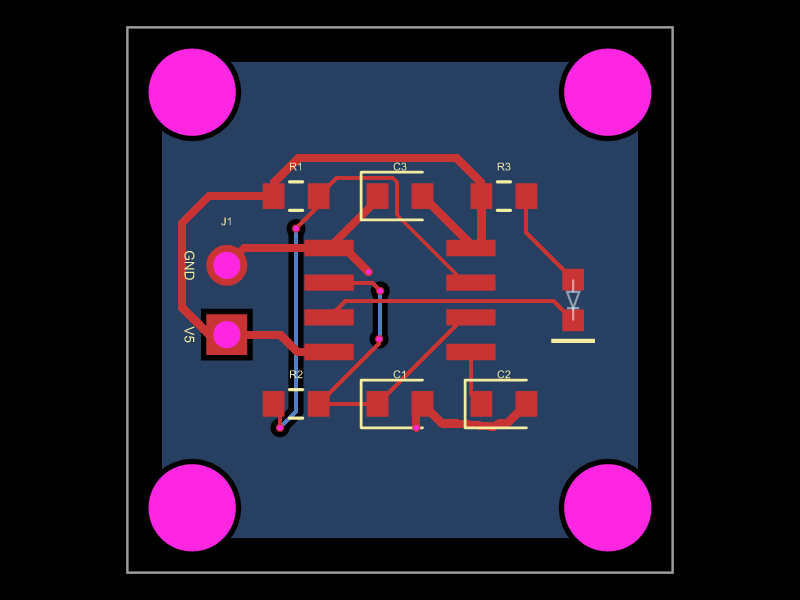
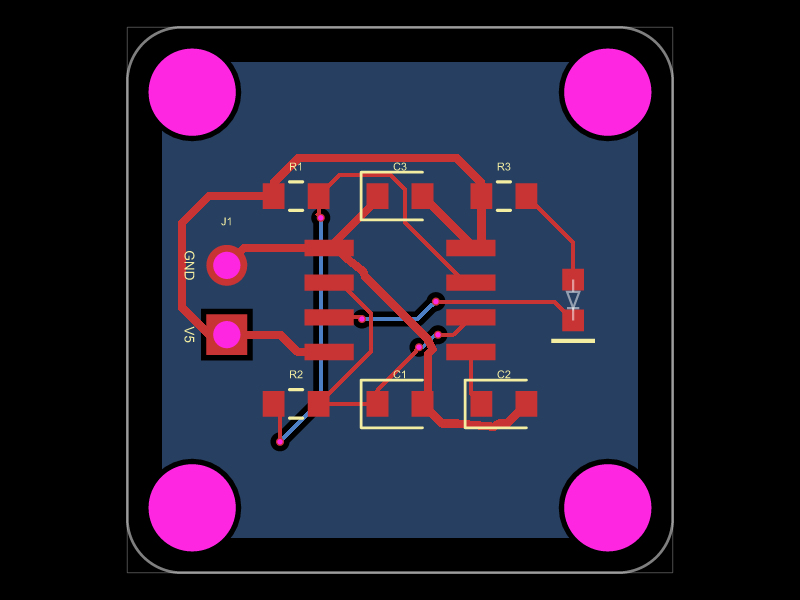
fix: new design rules

diff --git a/index.circuit.tsx b/index.circuit.tsx
@@ -84,7 +84,7 @@ const route = (at: [number, number], pts: [number, number][], d = 0.9) =>
     .map(({ x, y }) => ({ x: x - at[0], y: y - at[1] }))
 
 export default () => (
-  <board width="20mm" height="20mm" thickness="1.6mm" pcbStyle={{ silkscreenFontSize: 0.4 }} schTraceAutoLabelEnabled schMaxTraceDistance={5}>
+  <board width="20mm" height="20mm" borderRadius={2} thickness="1.6mm" pcbStyle={{ silkscreenFontSize: 0.4 }} schTraceAutoLabelEnabled schMaxTraceDistance={5}>
 
     <schematicsheet name="Flasher" displayName="NE555 LED flasher" sheetIndex={0} sheetWidth="170mm" sheetHeight="90mm" />
     <schematicsection name="Power" displayName="Power input" />

diff --git a/README.md b/README.md
@@ -33,14 +33,14 @@ First complete draft: 5V NE555 LED flasher, builds cleanly (`tsci build`), `tsci
 - **Ground pour:** solid copper pour on the bottom layer only, tied to GND (0.2 mm clearance, `boardEdgeMargin="1.27mm"`; DESIGN.md rule 16 says no top pour). The top-layer GND traces are still routed; the pour is tied in through J1.GND and the GND traces' layer-change vias and adds return-path area/shielding.
 - **Trace width:** V5 and GND traces are 0.3 mm (`thickness="0.3mm"` on every trace that touches those nets); signal traces keep the 0.15 mm default.
 - **Routing:** V5 is hand-routed on the top layer (`pcbPath` via the `route()` helper, which cuts every 90 degree corner into two 45 degree bends, DESIGN.md rule 17; no vias); GND and the signals are autorouted. Two vias remain on the GND tree (rule 15 covers supply nets other than GND, so they are fine). Hand-routed traces anchor their `pcbPath` to the `from` part's centre, and C3 has `maxDecouplingTraceLength={3}` (the 1 mm default would stop the autorouter, since its V5 pad is 2.60 mm from U1 VCC). Sensible to review in `tsci dev` before fabrication.
-- **Layout:** see the published [DESIGN.md](https://github.com/agentic-pcb/example-base/blob/main/DESIGN.md); the "Design rule audit" table below audits all 27 rules. Parts sit on a 1.27 mm grid in two rows of three 0603 parts (top y = +3.81: R1, C3, R3; bottom y = -3.81: R2, C1, C2; 3.81 mm pitch), with J1 and D1 mirrored at x = ±6.35. The rows are pulled in from the former ±5.08 so every pad stays at least 4.2 mm from a hole centre (screw head area, rule 18).
+- **Layout:** see the published [DESIGN.md](https://github.com/agentic-pcb/example-base/blob/main/DESIGN.md); the "Design rule audit" table below audits all 28 rules. The board corners are rounded with a 2 mm radius (rule 28). Parts sit on a 1.27 mm grid in two rows of three 0603 parts (top y = +3.81: R1, C3, R3; bottom y = -3.81: R2, C1, C2; 3.81 mm pitch), with J1 and D1 mirrored at x = ±6.35. The rows are pulled in from the former ±5.08 so every pad stays at least 4.2 mm from a hole centre (screw head area, rule 18).
 - **Decoupling (rule 24, a must):** C3 (100 nF) sits directly above U1 pin 8 (VCC), 2.60 mm centre to centre. Its V5 pad is pin 2 (a capacitor is non-polar, so pin 1/pin 2 are swapped in the TSX) so the V5 pad is the one nearer VCC. C2 (CTRL bypass) sits below pin 5.
 - **Silkscreen:** designators 0.4 mm, 1.1 mm above their part (`pcbSx`); J1's V5/GND labels are 0.5 mm. J1 and the labels are explicit `<silkscreentext>` elements because `pcbSx` cannot tell a designator from a pin label.
 - **Schematic:** four `<schematicsection>`s (Power input, Timer core, Timing network, LED output) read left to right; U1 has supply on top and GND at the bottom.
 
 ## Design rule audit
 
-Audit of the layout against the 27 rules of the published [DESIGN.md](https://github.com/agentic-pcb/example-base/blob/main/DESIGN.md) (the single source of truth: it is referenced by URL, not copied into this project, so re-check the numbers below whenever it changes). Board 20 x 20 mm; grid origin = board centre, step 1.27 mm; numbers measured from `dist/index/circuit.json`. One row per rule; keep it current after layout changes.
+Audit of the layout against the 28 rules of the published [DESIGN.md](https://github.com/agentic-pcb/example-base/blob/main/DESIGN.md) (the single source of truth: it is referenced by URL, not copied into this project, so re-check the numbers below whenever it changes). Board 20 x 20 mm; grid origin = board centre, step 1.27 mm; numbers measured from `dist/index/circuit.json`. One row per rule; keep it current after layout changes.
 
 | # | Status | How |
 | --- | --- | --- |
@@ -69,8 +69,9 @@ Audit of the layout against the 27 rules of the published [DESIGN.md](https://gi
 | 23 | n/a | single 5 V flasher: no analog signal, sensor or high-current line |
 | 24 | pass | C3 pad 2 (V5) is 2.60 mm from U1 VCC (pin 8), centre to centre; V5 trace 0.3 mm; its GND pad goes through the GND net |
 | 25 | n/a | no crystal |
-| 26 | pass | closest pad is 2.90 mm and closest silkscreen text 2.05 mm from the edge; the GND pour stops 1.27 mm from the edge; the mounting holes (0.78 mm edge to board edge) are deliberate edge parts |
+| 26 | pass | closest pad is 2.90 mm and closest silkscreen text 2.05 mm from the edge; the GND pour stops 1.27 mm from the edge; no panel is used, so the 1.27 mm clearance applies (measured from the curve at the corners); the mounting holes (0.78 mm edge to board edge) are deliberate edge parts |
 | 27 | n/a | no heat-producing parts (LED about 8 mA, NE555 a few mA) |
+| 28 | pass | `<board borderRadius={2}>` rounds all four outer corners with a 2 mm radius; the mounting holes sit about 0.94 mm inside the curve and no other part, pad or text is near a corner |
 
 ## Finding JLCPCB parts
 

diff --git a/CLAUDE.md b/CLAUDE.md
@@ -43,7 +43,7 @@ This project ships without a formatter or linter. When the user wants one (ask f
 
 ## Conventions and rules
 
-- PCB layout and schematic follow the published `DESIGN.md` (https://github.com/agentic-pcb/example-base/blob/main/DESIGN.md; alignment, routing, mounting, schematic and placement rules, 27 in all; decoupling caps within 3 mm of the IC power pin is a must). It is the single source of truth and is not copied into this project: fetch the current version (`curl -sL https://raw.githubusercontent.com/agentic-pcb/example-base/main/DESIGN.md`) before moving or adding parts, pads or labels, and update the README's "Design rule audit" table (one row per rule) after layout changes. The rule numbers can change upstream: when they do, renumber the audit table and the rule references in README.md and `index.circuit.tsx`. Designator size comes from `<board pcbStyle={{ silkscreenFontSize }}>`; a designator is moved with the `pcbSx={{ '& silkscreentext': { pcbX, pcbY } }}` prop of its part (offset from the part; `pcbStyle.silkscreenTextPosition` is typed but not implemented in the installed core). The `pcbSx` selector hits every silkscreen text of the part, so J1 (pin labels + designator) hides its own texts and uses explicit `<silkscreentext>` elements instead.
+- PCB layout and schematic follow the published `DESIGN.md` (https://github.com/agentic-pcb/example-base/blob/main/DESIGN.md; alignment, routing, mounting, schematic and placement and outline rules, 28 in all; decoupling caps within 3 mm of the IC power pin is a must). It is the single source of truth and is not copied into this project: fetch the current version (`curl -sL https://raw.githubusercontent.com/agentic-pcb/example-base/main/DESIGN.md`) before moving or adding parts, pads or labels, and update the README's "Design rule audit" table (one row per rule) after layout changes. The rule numbers can change upstream: when they do, renumber the audit table and the rule references in README.md and `index.circuit.tsx`. Designator size comes from `<board pcbStyle={{ silkscreenFontSize }}>`; a designator is moved with the `pcbSx={{ '& silkscreentext': { pcbX, pcbY } }}` prop of its part (offset from the part; `pcbStyle.silkscreenTextPosition` is typed but not implemented in the installed core). The `pcbSx` selector hits every silkscreen text of the part, so J1 (pin labels + designator) hides its own texts and uses explicit `<silkscreentext>` elements instead.
 - Detailed guidance lives in the bundled skill: `.claude/skills/tscircuit/` (SKILL.md, CLI.md, SYNTAX.md, WORKFLOW.md, CHECKLIST.md, FOOTPRINTS.md, per-element docs in `elements/`, templates in `templates/`).
 - Don't invent JSX props or CLI flags; confirm in `elements/*.md` or `--help`. Learn from https://docs.tscircuit.com/ before writing or changing circuit code, not only for what the skill doesn't cover. `https://docs.tscircuit.com/llms.txt` (same as `ai.txt`) is the whole docs set as one ~870 KB Repomix dump: run `npm run update:llms` to save it as `docs/llms.txt` (gitignored) and grep that file, never load it whole. The skill comes from https://github.com/tscircuit/skill (`npx skills add tscircuit/skill`).
 - Define `pinLabels` and `pinAttributes` on chips before wiring traces. Reference pins by label (`U1.VCC`, `net.GND`).
